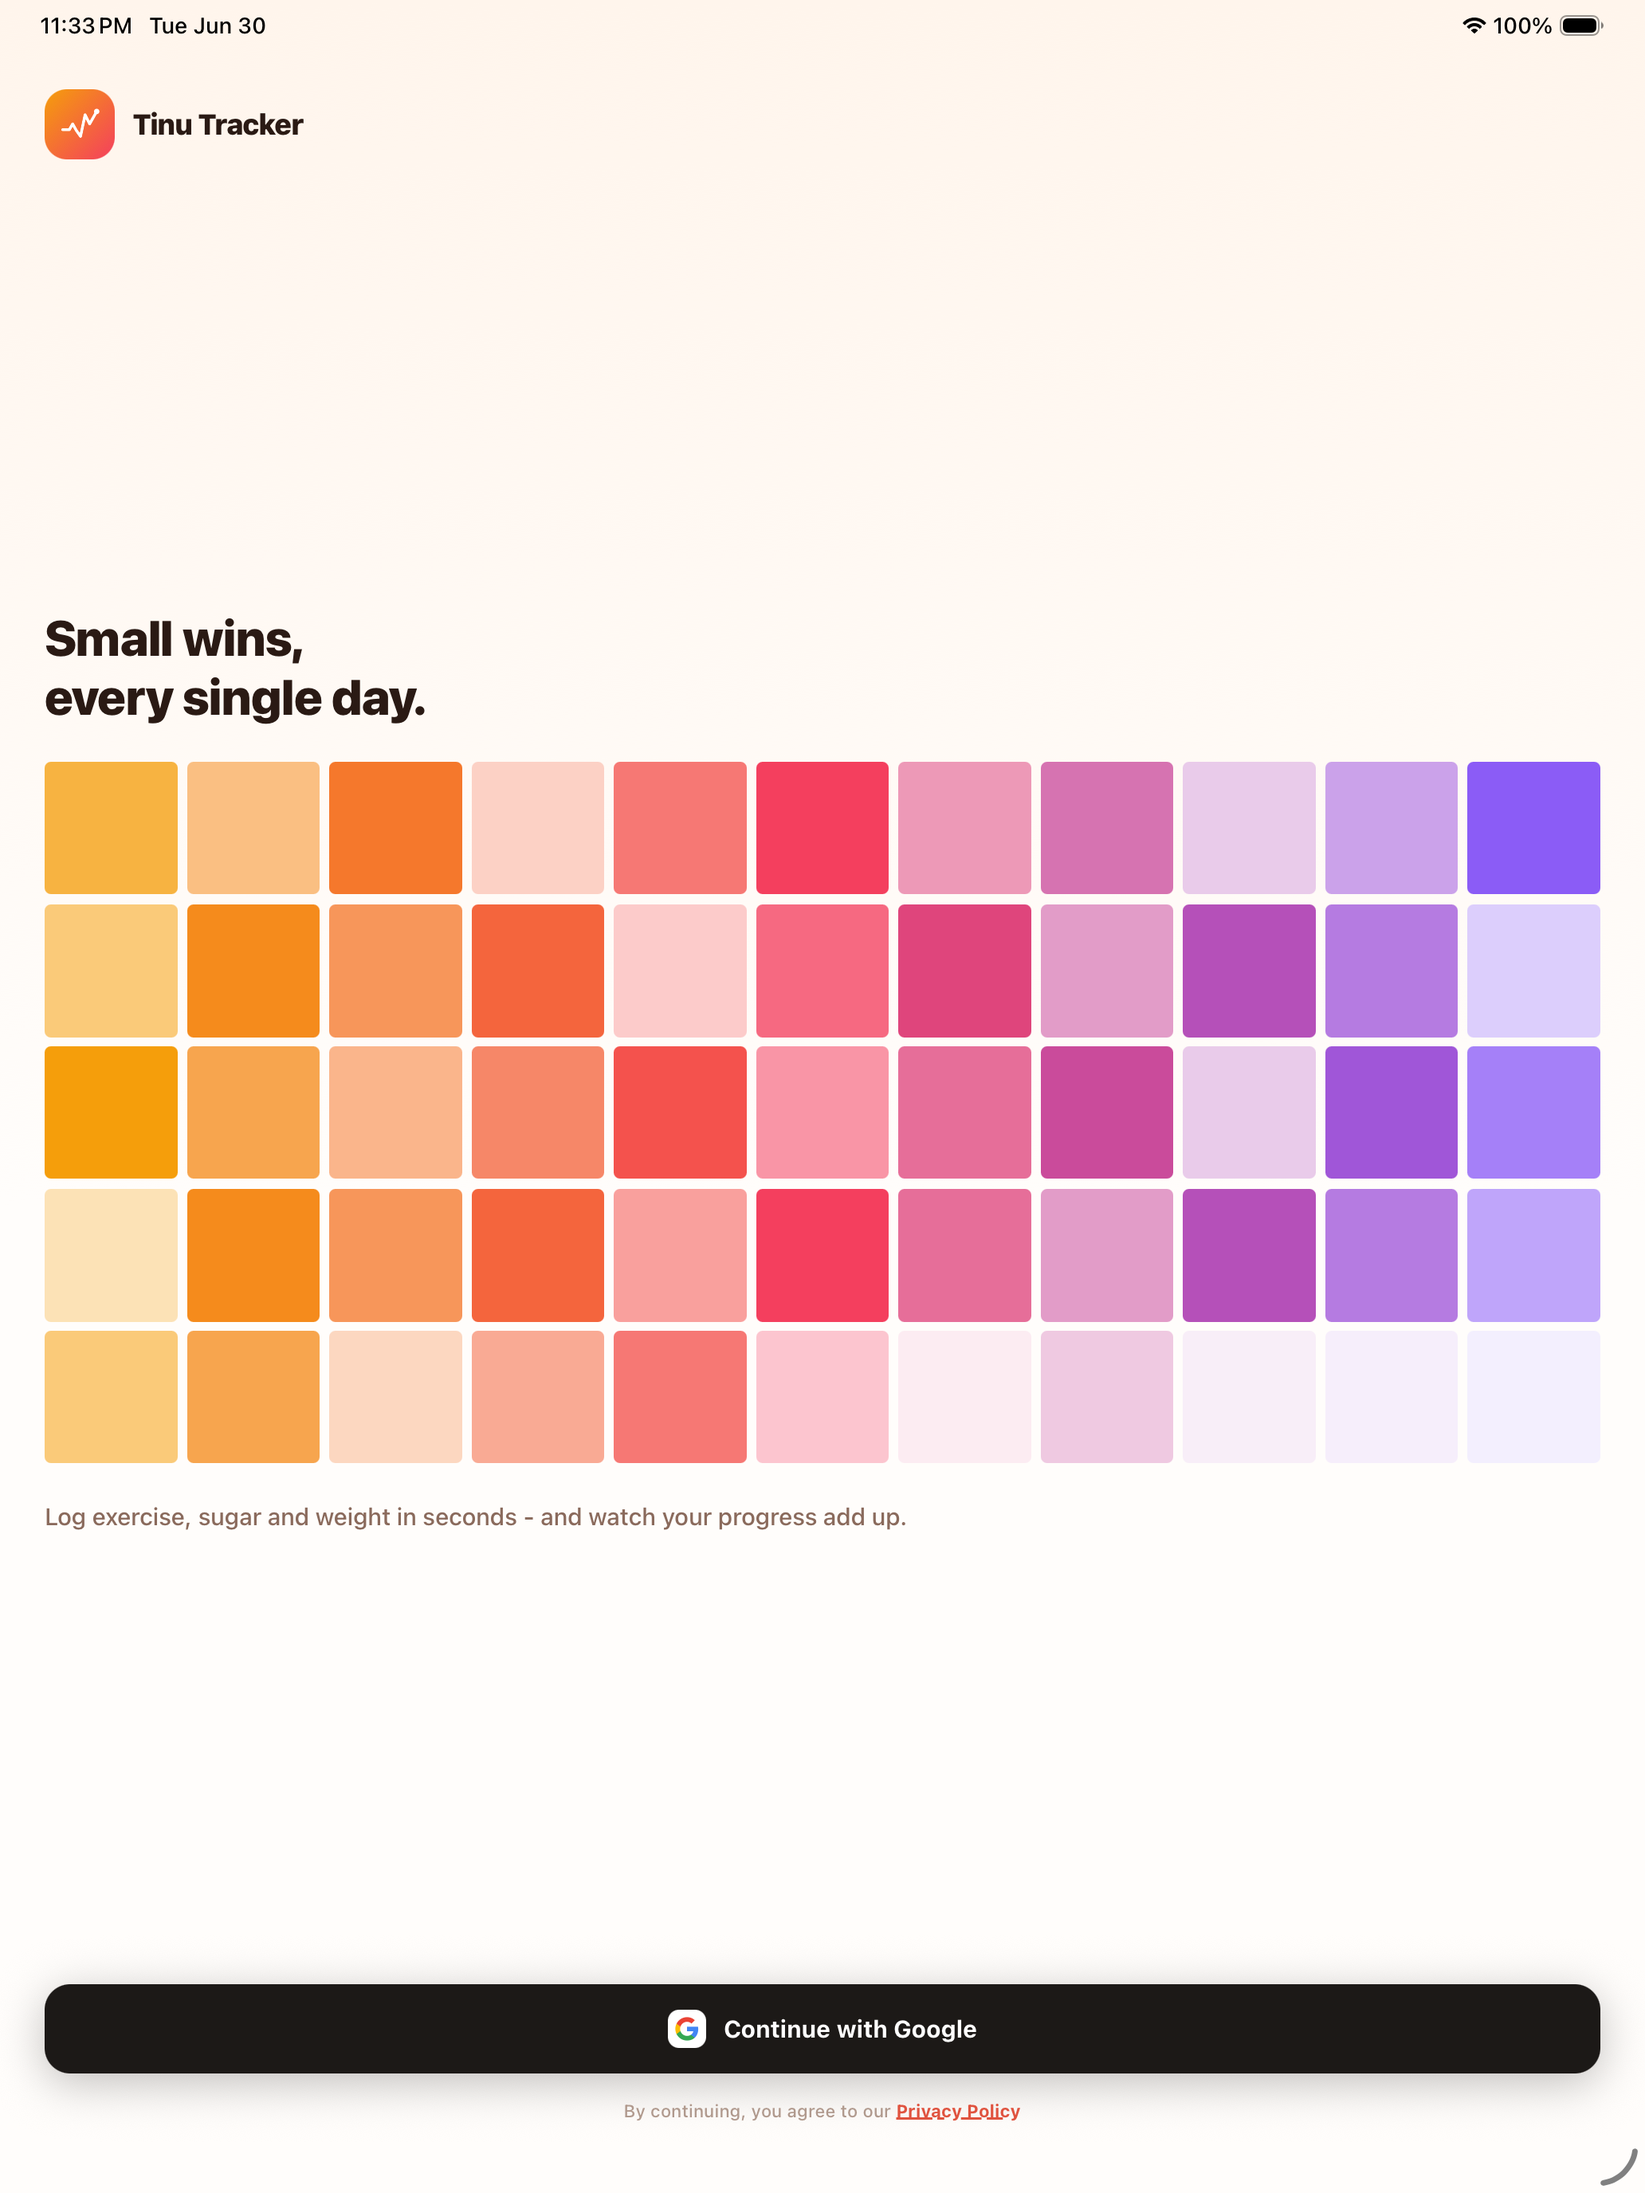
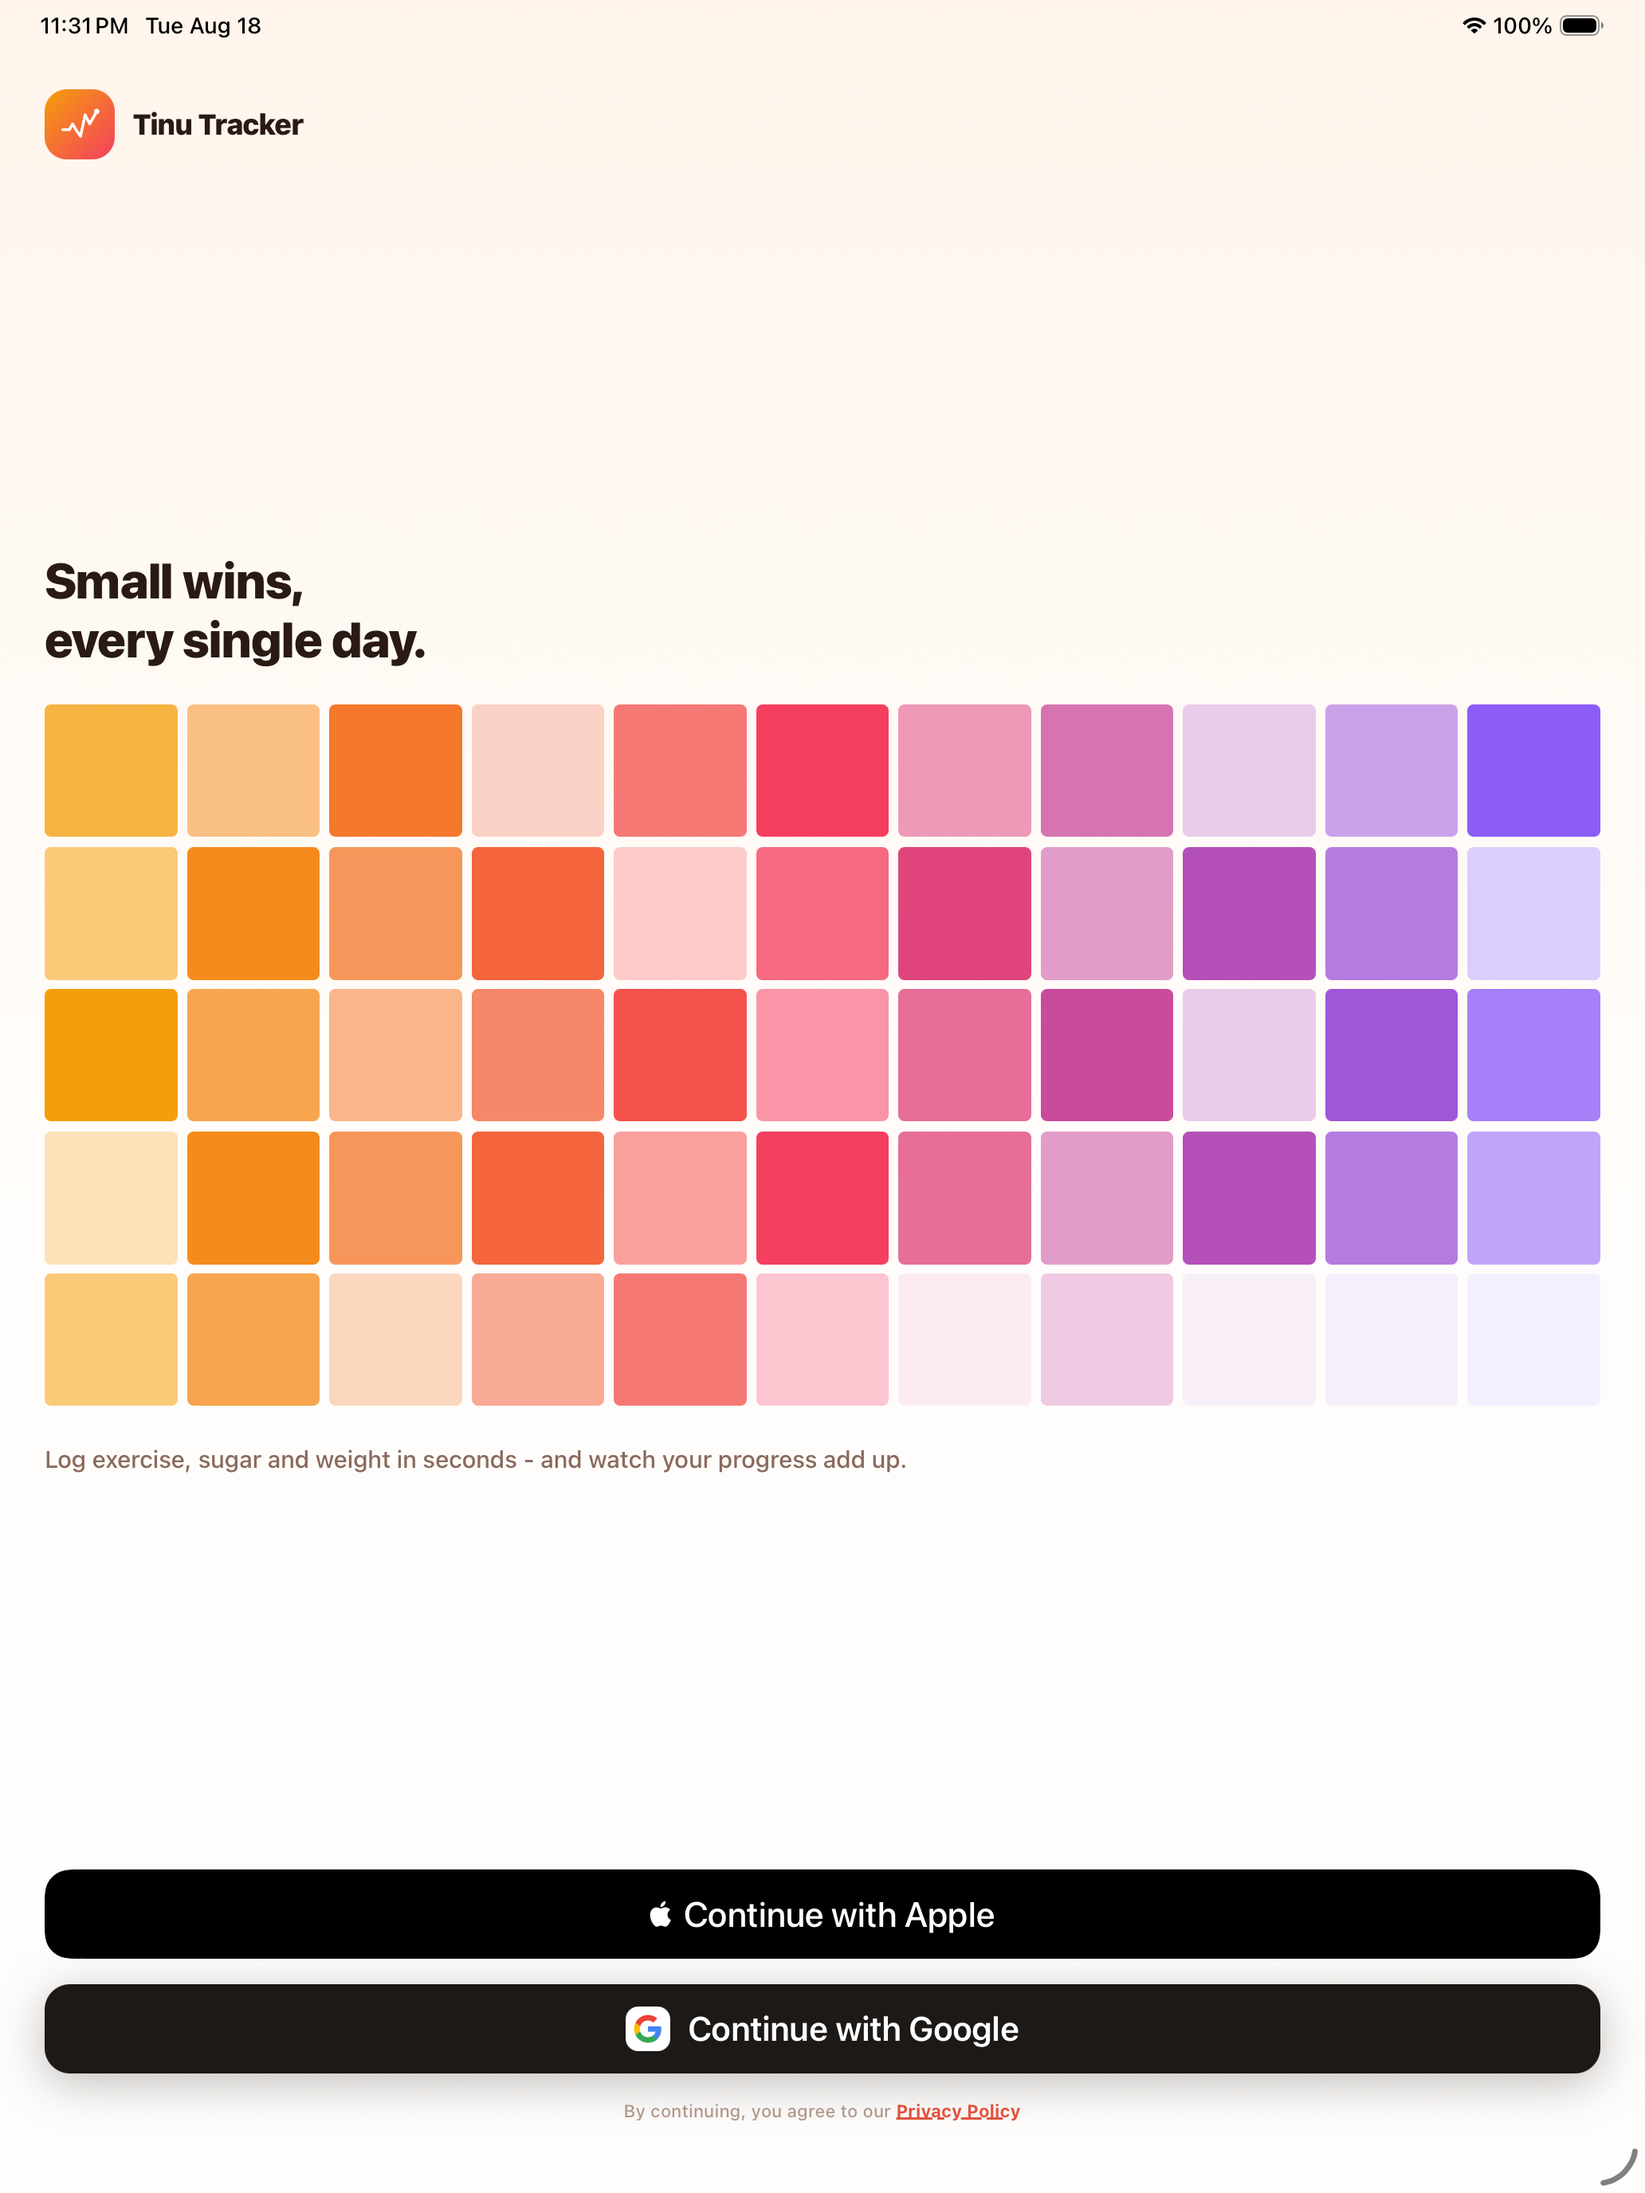
Match the Google button's label to Apple's
The two sign-in buttons did not look like a pair. AppleAuthenticationButton
wraps UIKit's ASAuthorizationAppleIDButton, which Apple draws itself: the label
size is derived from the button height and there is no font prop, so anything
passed through style is ignored. Our Google button is a plain View + Text that
had been tuned at 15pt/700 back when it was the only button on the screen.

Measured off simulator captures (label ink height at 3x), Apple's label renders
at 19.7pt against our 14.3pt - a ratio of 1.372. Apple's side cannot move, so
ours does: 21.2pt semibold with no extra tracking brings the ratio to 1.017,
which is sub-pixel at 3x. The G chip grows 24 -> 28pt with a 19pt glyph so the
icons carry the same weight as Apple's mark.

Also recaptures the App Store sign-in screenshots from this build, which App
Review asked for when it rejected 1.0 (4) under guideline 4.8. iphone-6.9 and
ipad-13 are native captures; iphone-6.5 is scaled from the 6.9 capture as no
6.5" simulator is installed. The trends screenshots are deliberately left
alone - the account's data stops on 30 Jun, so a fresh capture would show an
empty chart.

Changed region(s): [[0.0, 0.25, 0.9922, 0.7188], [0.031, 0.8438, 0.9922, 0.9375], [0.062, 0.0, 0.155, 0.0312]]

diff --git a/screens/SignInScreen.tsx b/screens/SignInScreen.tsx
@@ -333,7 +333,7 @@ export default function SignInScreen() {
                 ) : (
                   <>
                     <View style={styles.googleChip}>
-                      <GoogleIcon size={16} />
+                      <GoogleIcon size={19} />
                     </View>
                     <Text style={styles.googleBtnText}>Continue with Google</Text>
                   </>
@@ -439,16 +439,21 @@ const styles = StyleSheet.create({
     shadowRadius: 14,
     elevation: 6,
   },
+  // Scaled with the label so the G reads at the same weight as Apple's glyph.
   googleChip: {
-    width: 24,
-    height: 24,
-    borderRadius: 7,
+    width: 28,
+    height: 28,
+    borderRadius: 8,
     backgroundColor: '#fff',
     alignItems: 'center',
     justifyContent: 'center',
   },
   disabled: { opacity: 0.5 },
-  googleBtnText: { fontSize: 15, fontWeight: '700', color: '#FFFFFF', letterSpacing: 0.1 },
+  // Sized to match Apple's button, not to taste: ASAuthorizationAppleIDButton
+  // derives its label from the button height and exposes no font prop, so ours
+  // is the only side that can move. Measured off a 56pt-tall button capture —
+  // Apple's label renders at ~20.5pt semibold with no extra tracking.
+  googleBtnText: { fontSize: 21.2, fontWeight: '600', color: '#FFFFFF', letterSpacing: 0 },
   error: { color: '#DC2626', fontSize: 13, textAlign: 'center' },
 
   // Email/password fields (secondary path)
